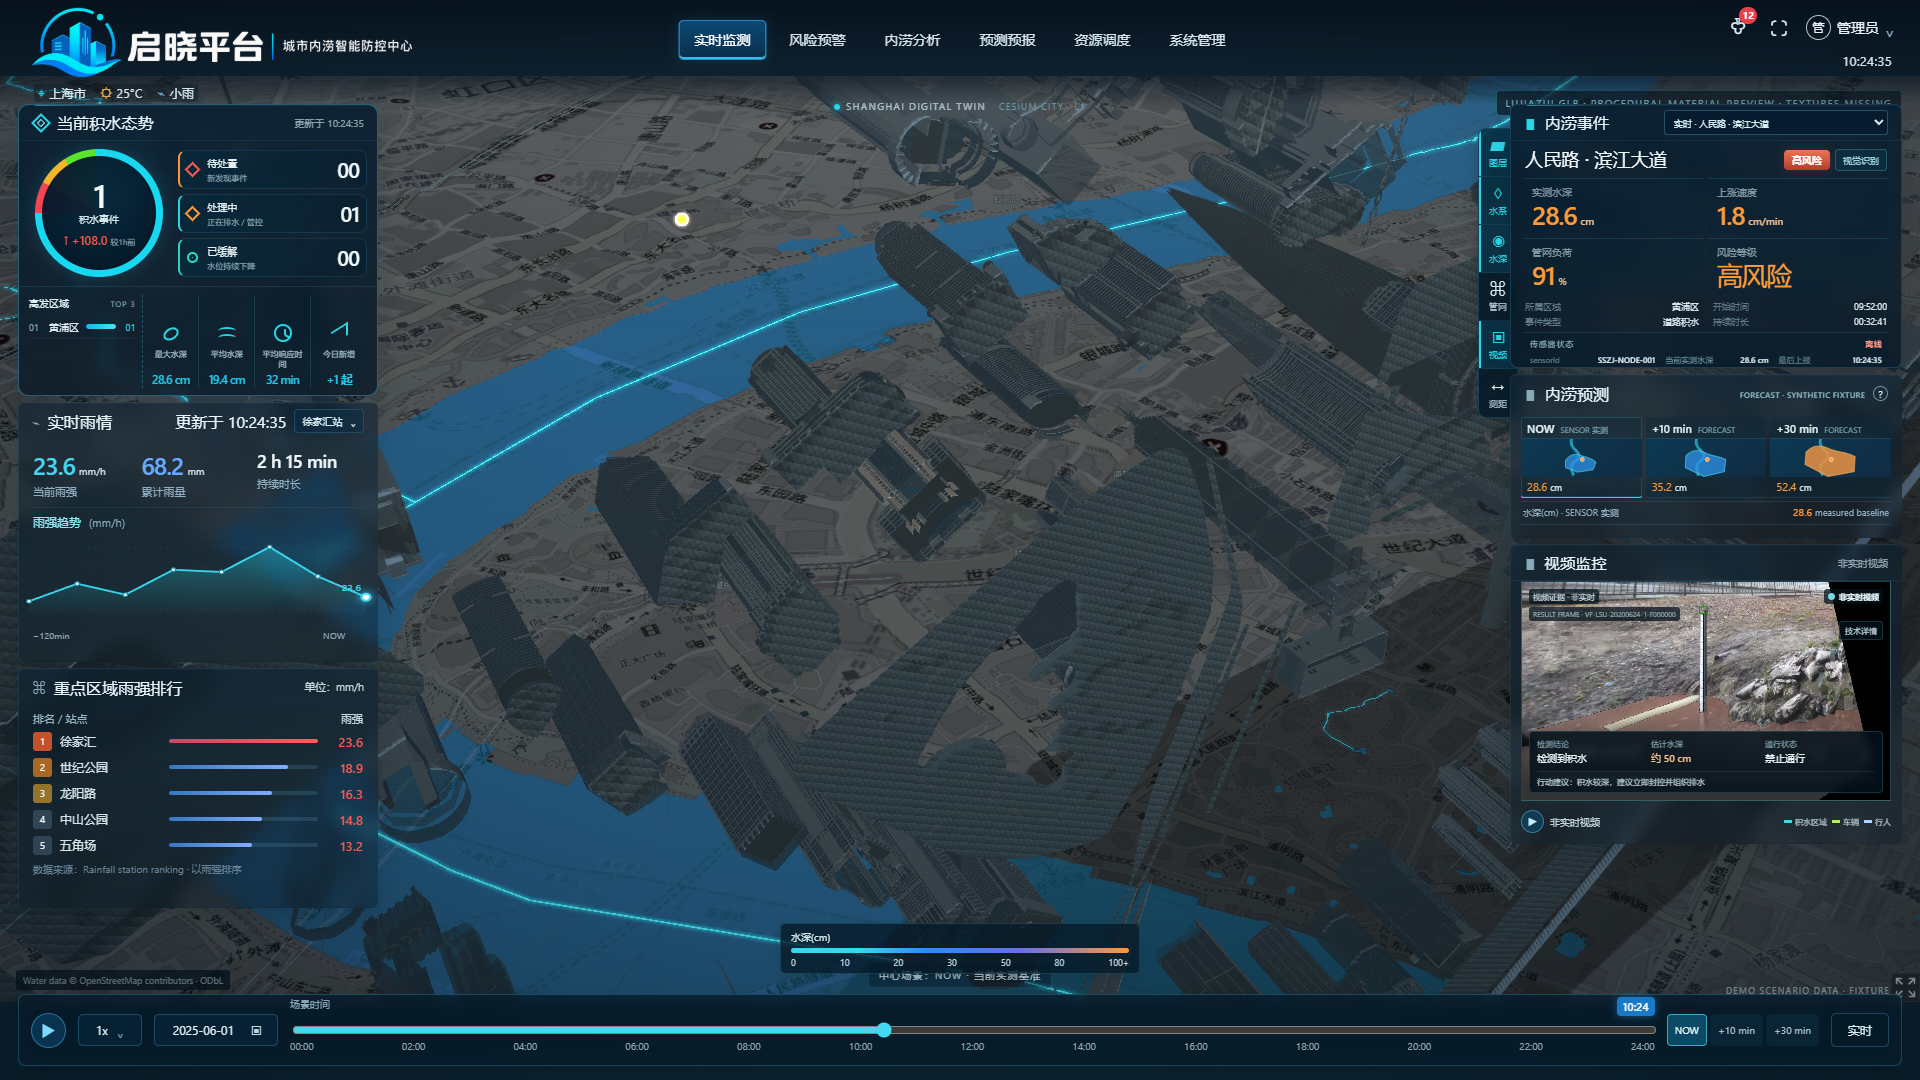
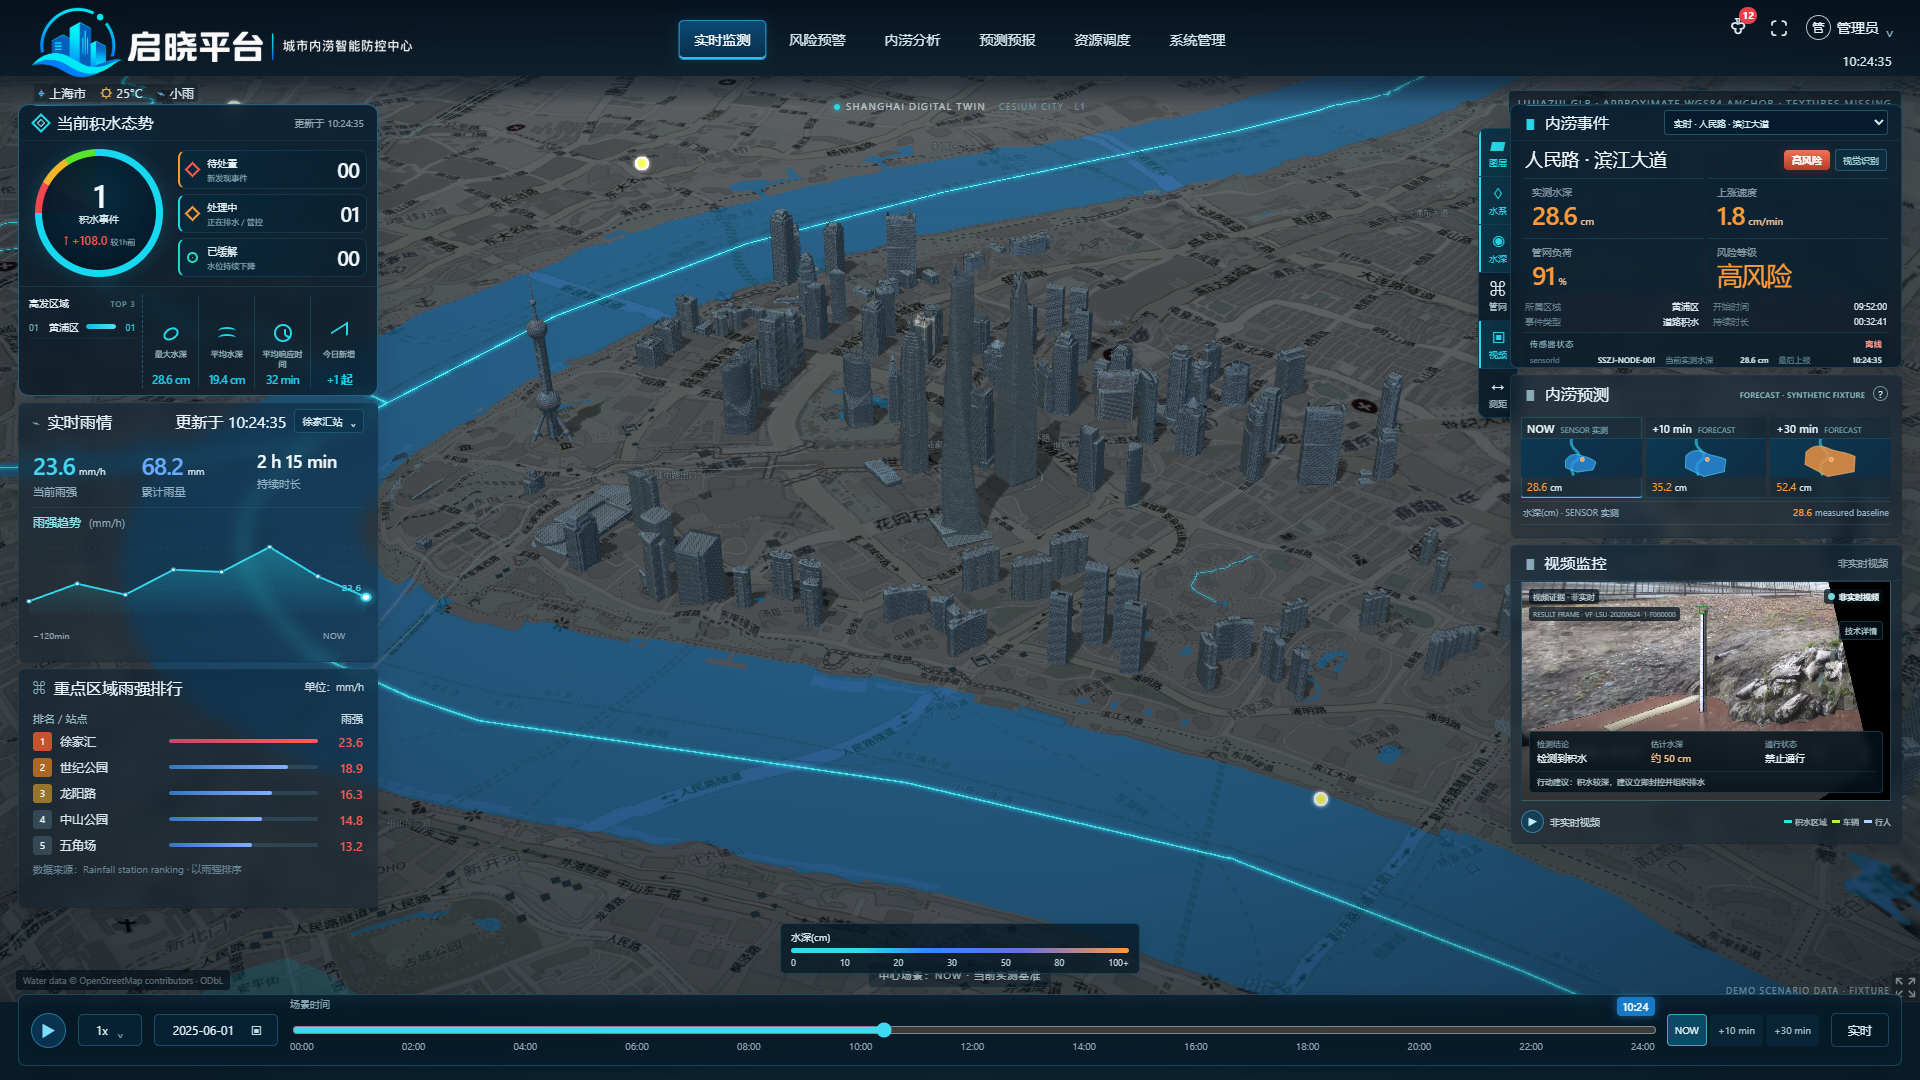
fix: calibrate Lujiazui GLB geographic anchor

diff --git a/frontend/src/CesiumScene.tsx b/frontend/src/CesiumScene.tsx
@@ -20,11 +20,13 @@ const BIMANGLE_ORIGIN = { lon: 116.46, lat: 39.92 }
 const HUANGPU_SHP_CENTER = { lon: 121.47797014, lat: 31.21940076 }
 const HUANGPU_MODEL_CENTER_LOCAL = { x: 80.3409, y: -53.0326, z: 90 }
 const DEFAULT_EVENT = { lon: 121.4874, lat: 31.2297 }
-const LUJIAZUI_ANCHOR = { lon: 121.5018, lat: 31.2396 }
+// The purchased camera asset has no WGS84 control points. This visual anchor
+// uses the tallest source building as an approximate Shanghai Tower proxy.
+const LUJIAZUI_ANCHOR = { lon: 121.5014, lat: 31.2357 }
 const LUJIAZUI_LOCAL_BOUNDS = {
-  centerX: 160000,
-  baseY: 0,
-  centerZ: 150000,
+  centerX: 93665,
+  baseY: 267.0371,
+  centerZ: 142626,
   scale: 0.01,
   heading: 0,
 }
@@ -140,7 +142,7 @@ function createLujiazuiModelMatrix() {
   const modelAxes = Cesium.Matrix3.fromArray([
     1, 0, 0,
     0, 0, 1,
-    0, 1, 0,
+    0, -1, 0,
   ])
   const headingRotation = Cesium.Matrix3.fromRotationZ(Cesium.Math.toRadians(LUJIAZUI_LOCAL_BOUNDS.heading))
   const enuFromModel = Cesium.Matrix3.multiply(headingRotation, modelAxes, new Cesium.Matrix3())
@@ -343,8 +345,11 @@ export function CesiumScene({ event, points, sensor = null, activeForecast, fore
           url: LUJIAZUI_GLB_URL,
           scene: viewer.scene,
           modelMatrix: createLujiazuiModelMatrix(),
+          upAxis: Cesium.Axis.Z,
+          forwardAxis: Cesium.Axis.X,
           customShader: LUJIAZUI_MATERIAL_SHADER,
           shadows: Cesium.ShadowMode.ENABLED,
+          backFaceCulling: false,
           id: 'lujiazui-camera-max-glb',
         })
         if (disposed) {
@@ -420,8 +425,8 @@ export function CesiumScene({ event, points, sensor = null, activeForecast, fore
   useEffect(() => {
     const viewer = viewerRef.current
     if (!viewer || !viewerReady) return
-    flyToTarget(viewer, target)
-  }, [target.lat, target.lon, viewerReady])
+    flyToTarget(viewer, source === 'lujiazui' ? LUJIAZUI_ANCHOR : target)
+  }, [target.lat, target.lon, viewerReady, source])
 
   useEffect(() => {
     const viewer = viewerRef.current
@@ -733,6 +738,8 @@ export function CesiumScene({ event, points, sensor = null, activeForecast, fore
       data-source-reason={sourceReason}
       data-model-source={source === 'lujiazui' ? LUJIAZUI_GLB_URL : 'none'}
       data-model-material={source === 'lujiazui' ? 'procedural-blue-gray-preview' : 'none'}
+      data-model-georeference={source === 'lujiazui' ? 'approximate-wgs84-anchor' : 'none'}
+      data-model-anchor={source === 'lujiazui' ? `${LUJIAZUI_ANCHOR.lon},${LUJIAZUI_ANCHOR.lat}` : 'none'}
       data-local-tileset={CORE_TILES_URL}
       data-coordinate-system="WGS84 lon/lat"
       data-ground-source="osm-online-dimmed"
@@ -759,7 +766,7 @@ export function CesiumScene({ event, points, sensor = null, activeForecast, fore
     >
       {status === 'loading' && <span className="cesium-scene-status">{CESIUM_ION_TOKEN ? 'LOCAL GLB / OSM BUILDINGS LOADING' : 'LOCAL CITY MODEL LOADING'}</span>}
       {status === 'error' && <span className="cesium-scene-status cesium-scene-status--error">CITY DATA UNAVAILABLE</span>}
-      {status === 'ready' && source && <span className="cesium-scene-source">{source === 'lujiazui' ? 'LUJIAZUI GLB · PROCEDURAL MATERIAL PREVIEW · TEXTURES MISSING' : source === 'osm' ? 'OSM BUILDINGS · OSM ONLINE BASEMAP' : source === 'local' ? `LOCAL HUANGPU · OSM ONLINE BASEMAP${sourceReasonSuffix}` : `DEMO CITY BLOCKS · OSM ONLINE BASEMAP${sourceReasonSuffix}`}</span>}
+      {status === 'ready' && source && <span className="cesium-scene-source">{source === 'lujiazui' ? 'LUJIAZUI GLB · APPROXIMATE WGS84 ANCHOR · TEXTURES MISSING' : source === 'osm' ? 'OSM BUILDINGS · OSM ONLINE BASEMAP' : source === 'local' ? `LOCAL HUANGPU · OSM ONLINE BASEMAP${sourceReasonSuffix}` : `DEMO CITY BLOCKS · OSM ONLINE BASEMAP${sourceReasonSuffix}`}</span>}
       <a className="cesium-scene-attribution" href="https://www.openstreetmap.org/copyright" target="_blank" rel="noreferrer">Water data © OpenStreetMap contributors · ODbL</a>
     </div>
   )
